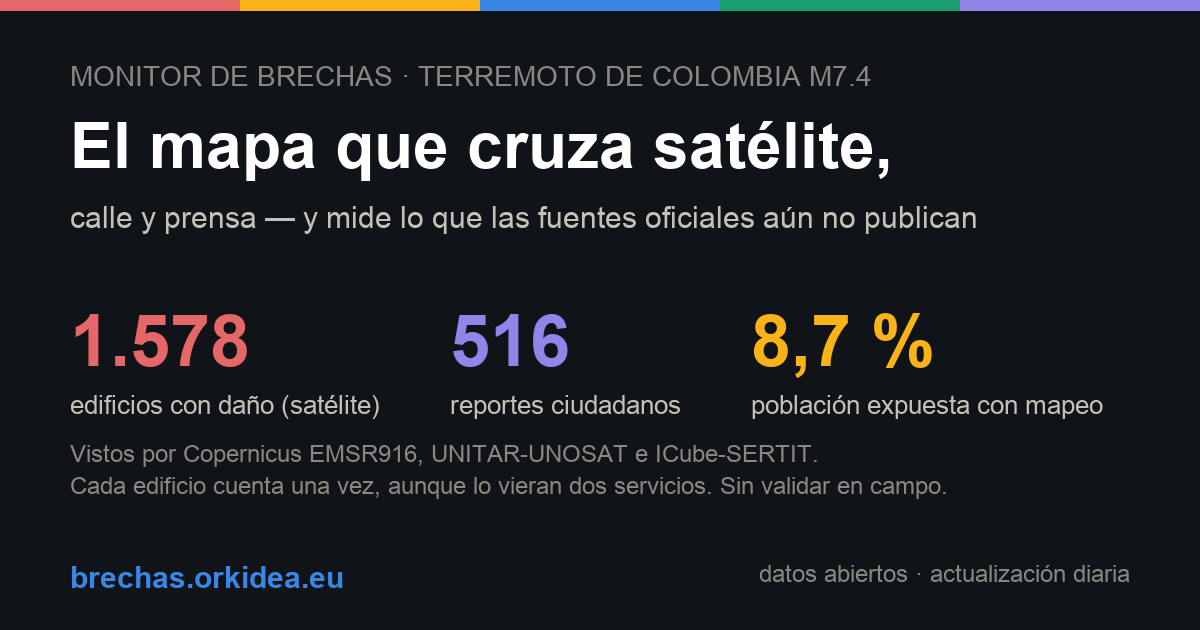
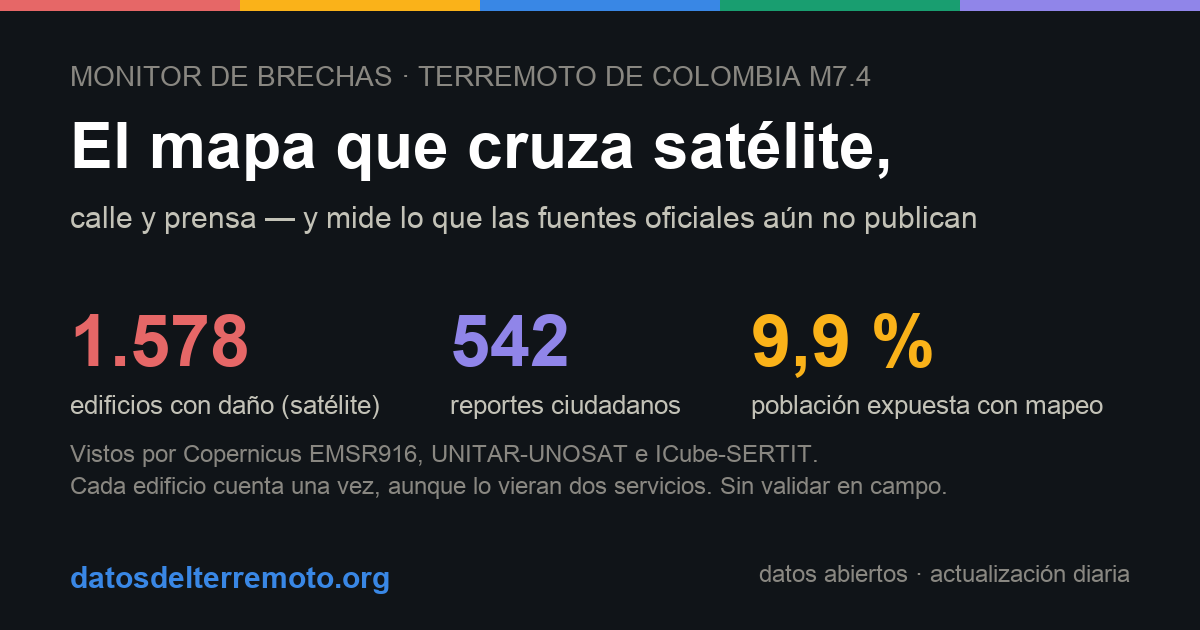
El monitor se muda a datosdelterremoto.org: el archivo deja de colgar de un dominio personal
Un observatorio que promete ser reconstruible dentro de veinte años no puede
depender de la renovación de un dominio ajeno a él. El sitio pasa a un dominio
propio, con el DNS en Cloudflare junto al worker, R2 y las analíticas.

El dominio anterior no se abandona: queda con 301 permanente, porque hay URLs
citadas en prensa y programas que descargan los JSON y el CSV a diario. Las URL
autorreferenciales de los hitos pasan a rutas relativas para que no vuelvan a
caducar; `docs/` y los snapshots no se tocan, que son archivo fechado.

De paso, los títulos dejan de firmar y pasan a responder: medían entre 95 y 124
caracteres y terminaban en una marca que nadie busca, así que las palabras que
importan caían fuera de la pantalla de resultados. Ahora rondan los 60 y el
nombre del sitio se declara en el JSON-LD. Se corrige además el nombre de la
fuente: es Registro Único de Damnificados, no «oficial» ni «unificado» — un
monitor que audita a otros no puede errar el nombre de lo que audita.

Nuevo guardián `tests/test_dominio_canonico.py`: falla si un fichero vivo
publica un dominio retirado o si un canonical discrepa del host del sitemap.
Validado contra el fallo real antes de darlo por bueno.

Changed region(s): [[0.0617, 0.9048, 0.3392, 0.9349], [0.6167, 0.4825, 0.7092, 0.6032], [0.4008, 0.5127, 0.4933, 0.6032]]

diff --git a/site/index.html b/site/index.html
@@ -3,28 +3,28 @@
 <head>
 <meta charset="utf-8">
 <meta name="viewport" content="width=device-width, initial-scale=1">
-<title>Terremoto de Colombia 2026 (M7.4): daños, municipios y prensa — Cali, Pereira, Quibdó, Buenaventura | Monitor de brechas</title>
+<title>Mapa del terremoto de Colombia 2026, municipio a municipio</title>
 <meta name="description" content="Mapa interactivo del terremoto del 10 de agosto de 2026 en Colombia (M7.4, San José del Palmar, Chocó): daños por satélite (Copernicus EMSR916, UNITAR-UNOSAT e ICube-SERTIT), municipios con prensa o intensidad percibida, población DANE, reportes ciudadanos por WhatsApp, balances oficiales citados en medios, titulares por zona y la brecha frente a fuentes oficiales UNGRD.">
 <meta name="robots" content="index, follow">
-<link rel="canonical" href="https://brechas.orkidea.eu/">
-<meta property="og:url" content="https://brechas.orkidea.eu/">
+<link rel="canonical" href="https://datosdelterremoto.org/">
+<meta property="og:url" content="https://datosdelterremoto.org/">
 <meta property="og:type" content="website">
 <meta property="og:locale" content="es_CO">
-<meta property="og:title" content="Terremoto de Colombia 2026 (M7.4): mapa de daños y monitor de brechas de reporte">
+<meta property="og:title" content="Datos del terremoto de Colombia 2026: mapa, cifras y brechas">
 <meta property="og:description" content="Daños clasificados por satélite (Copernicus EMSR916, UNITAR-UNOSAT e ICube-SERTIT), municipios mencionados en prensa o DYFI, población DANE, 430+ reportes ciudadanos con foto y brecha de fuentes oficiales.">
-<meta property="og:image" content="https://brechas.orkidea.eu/og/portada.png">
+<meta property="og:image" content="https://datosdelterremoto.org/og/portada.png">
 <meta property="og:image:width" content="1200">
 <meta property="og:image:height" content="630">
 <meta property="og:image:alt" content="Monitor del terremoto de Colombia: 1.578 edificios con daño clasificado por satélite —Copernicus EMSR916, UNITAR-UNOSAT e ICube-SERTIT, contando una sola vez los que vieron dos servicios—, reportes ciudadanos y brechas de reporte">
-<meta name="twitter:image" content="https://brechas.orkidea.eu/og/portada.png">
+<meta name="twitter:image" content="https://datosdelterremoto.org/og/portada.png">
 <meta name="twitter:card" content="summary_large_image">
-<meta name="twitter:title" content="Terremoto de Colombia 2026 (M7.4): mapa de daños por ciudad">
+<meta name="twitter:title" content="Mapa del terremoto de Colombia 2026, municipio a municipio">
 <meta name="twitter:description" content="Mapa interactivo con daños satelitales, reportes ciudadanos y brechas de reporte oficial, actualizado a diario.">
 <script type="application/ld+json">
 {
   "@context": "https://schema.org",
   "@type": "WebSite",
-  "name": "Monitor de brechas — Terremoto de Colombia 2026",
+  "name": "Datos del terremoto de Colombia 2026",
   "inLanguage": "es",
   "about": {
     "@type": "Event",
@@ -63,7 +63,7 @@
 <nav id="site-nav" aria-label="Navegación del sitio"></nav>
 <header>
   <div>
-    <h1>Monitor de brechas de reporte — Terremoto de Colombia</h1>
+    <h1>Datos del terremoto de Colombia 2026</h1>
     <p class="sub">Magnitud 7,4 · 10 de agosto de 2026 · San José del Palmar (Chocó) ·
       Copernicus <a href="https://rapidmapping.emergency.copernicus.eu/EMSR916/" target="_blank" rel="noopener">EMSR916</a> ·
       GLIDE EQ-2026-000146-COL · alerta PAGER <span class="badge critical">roja</span></p>

diff --git a/site/noticias.html b/site/noticias.html
@@ -3,26 +3,26 @@
 <head>
 <meta charset="utf-8">
 <meta name="viewport" content="width=device-width, initial-scale=1">
-<title>Titulares del terremoto de Colombia 2026 — noticias por zona y municipio | Monitor de brechas</title>
+<title>Titulares del terremoto de Colombia 2026, por zona y municipio</title>
 <meta name="description" content="Titulares de prensa ligados al terremoto M7.4 de Colombia (10-ago-2026), emparejados por AOI Copernicus y municipio: GDACS EMM, feeds abiertos y búsquedas Google News municipales.">
-<link rel="canonical" href="https://brechas.orkidea.eu/noticias.html">
-<meta property="og:url" content="https://brechas.orkidea.eu/noticias.html">
+<link rel="canonical" href="https://datosdelterremoto.org/noticias.html">
+<meta property="og:url" content="https://datosdelterremoto.org/noticias.html">
 <meta property="og:type" content="website">
 <meta property="og:locale" content="es_CO">
 <meta property="og:title" content="Titulares del terremoto de Colombia 2026, por zona afectada">
 <meta property="og:description" content="Miles de titulares del terremoto M7.4 emparejados por zona (Cali, Pereira, Quibdó, Istmina, Buenaventura), desde feeds internacionales y regionales abiertos a la comunidad.">
-<meta property="og:image" content="https://brechas.orkidea.eu/og/titulares.png">
+<meta property="og:image" content="https://datosdelterremoto.org/og/titulares.png">
 <meta property="og:image:width" content="1200">
 <meta property="og:image:height" content="630">
 <meta property="og:image:alt" content="Titulares del terremoto de Colombia emparejados por zona afectada">
-<meta name="twitter:image" content="https://brechas.orkidea.eu/og/titulares.png">
+<meta name="twitter:image" content="https://datosdelterremoto.org/og/titulares.png">
 <meta name="twitter:card" content="summary_large_image">
 <meta name="twitter:title" content="Titulares del terremoto de Colombia, por zona">
 <meta name="twitter:description" content="Feeds abiertos: cualquiera puede sumar un medio local con un PR.">
 <script type="application/ld+json">
 {"@context":"https://schema.org","@type":"CollectionPage",
  "name":"Titulares del terremoto de Colombia 2026 por zona",
- "inLanguage":"es","isPartOf":{"@type":"WebSite","name":"Monitor de brechas","url":"https://brechas.orkidea.eu/"}}
+ "inLanguage":"es","isPartOf":{"@type":"WebSite","name":"Datos del terremoto de Colombia 2026","url":"https://datosdelterremoto.org/"}}
 </script>
 <link rel="manifest" href="manifest.json">
 <link rel="icon" type="image/png" href="icons/favicon.png">
@@ -34,7 +34,7 @@
 <nav id="site-nav" aria-label="Navegación del sitio"></nav>
 <header>
   <div>
-    <h1>Titulares del terremoto — todas las noticias</h1>
+    <h1>Titulares del terremoto, por zona y por medio</h1>
     <p class="sub">Fuentes: GDACS EMM,
     feeds aportados por la comunidad y búsquedas Google News por municipio (<a href="https://github.com/18orkidea/monitor-terremoto-colombia/blob/main/feeds/registry.json" target="_blank" rel="noopener">registro abierto</a> —
     ¿conoces un buen feed local? <a href="https://github.com/18orkidea/monitor-terremoto-colombia/blob/main/CONTRIBUTING.md" target="_blank" rel="noopener">añádelo con un PR</a>)</p>

diff --git a/site/municipios.html b/site/municipios.html
@@ -3,20 +3,20 @@
 <head>
 <meta charset="utf-8">
 <meta name="viewport" content="width=device-width, initial-scale=1">
-<title>Municipios afectados por el terremoto de Colombia 2026: damnificados del RUD, prensa y población | Monitor de brechas</title>
+<title>Municipios afectados por el terremoto de Colombia 2026</title>
 <meta name="description" content="Municipios del área de influencia del terremoto M7.4 de Colombia (2026): damnificados registrados en el RUD (UNGRD), menciones en prensa, intensidad percibida (DYFI/USGS), población DANE 2026 y cobertura satelital (Copernicus, UNITAR-UNOSAT e ICube-SERTIT). Con buscador y cada cifra trazable.">
 <meta name="robots" content="index, follow">
-<link rel="canonical" href="https://brechas.orkidea.eu/municipios.html">
-<meta property="og:url" content="https://brechas.orkidea.eu/municipios.html">
+<link rel="canonical" href="https://datosdelterremoto.org/municipios.html">
+<meta property="og:url" content="https://datosdelterremoto.org/municipios.html">
 <meta property="og:type" content="website">
 <meta property="og:locale" content="es_CO">
 <meta property="og:title" content="Municipios afectados por el terremoto de Colombia 2026">
 <meta property="og:description" content="Cuántos damnificados registra el RUD en cada municipio, qué municipios aparecen en prensa, cuáles sintieron el sismo (DYFI) y cuáles mapeó el satélite — con población DANE y buscador.">
-<meta property="og:image" content="https://brechas.orkidea.eu/og/portada.png">
+<meta property="og:image" content="https://datosdelterremoto.org/og/portada.png">
 <meta property="og:image:width" content="1200">
 <meta property="og:image:height" content="630">
 <meta name="twitter:card" content="summary_large_image">
-<meta name="twitter:image" content="https://brechas.orkidea.eu/og/portada.png">
+<meta name="twitter:image" content="https://datosdelterremoto.org/og/portada.png">
 <meta name="twitter:title" content="Municipios afectados por el terremoto de Colombia 2026">
 <meta name="twitter:description" content="Damnificados del RUD, prensa, intensidad percibida, población DANE y cobertura satelital por municipio, con buscador.">
 <link rel="manifest" href="manifest.json">
@@ -29,7 +29,7 @@
 <nav id="site-nav" aria-label="Navegación del sitio"></nav>
 <header>
   <div>
-    <h1>Municipios con alguna señal del sismo</h1>
+    <h1>Datos de los municipios con alguna señal del sismo</h1>
     <p class="sub">Área de influencia del sismo M7.4 del 10 de agosto de 2026: registro oficial de
     damnificados, prensa, reportes «lo sentí» (DYFI) y cobertura satelital, municipio a
     municipio.</p>

diff --git a/site/rud.html b/site/rud.html
@@ -3,20 +3,20 @@
 <head>
 <meta charset="utf-8">
 <meta name="viewport" content="width=device-width, initial-scale=1">
-<title>RUD del terremoto de Colombia 2026: registro oficial de damnificados, día a día y por municipio | Monitor de brechas</title>
+<title>RUD: damnificados del terremoto de Colombia 2026, por municipio</title>
 <meta name="description" content="Seguimiento diario del RUD (UNGRD) tras el terremoto M7.4 de Colombia 2026: familias y personas damnificadas registradas, viviendas destruidas y averiadas, municipio a municipio, con buscador y serie temporal.">
 <meta name="robots" content="index, follow">
-<link rel="canonical" href="https://brechas.orkidea.eu/rud.html">
-<meta property="og:url" content="https://brechas.orkidea.eu/rud.html">
+<link rel="canonical" href="https://datosdelterremoto.org/rud.html">
+<meta property="og:url" content="https://datosdelterremoto.org/rud.html">
 <meta property="og:type" content="website">
 <meta property="og:locale" content="es_CO">
 <meta property="og:title" content="RUD: registro oficial de damnificados del terremoto de Colombia 2026">
 <meta property="og:description" content="La primera fuente oficial que cubre el evento: familias registradas por municipio, día a día, con buscador sobre los municipios registrados.">
-<meta property="og:image" content="https://brechas.orkidea.eu/og/portada.png">
+<meta property="og:image" content="https://datosdelterremoto.org/og/portada.png">
 <meta property="og:image:width" content="1200">
 <meta property="og:image:height" content="630">
 <meta name="twitter:card" content="summary_large_image">
-<meta name="twitter:image" content="https://brechas.orkidea.eu/og/portada.png">
+<meta name="twitter:image" content="https://datosdelterremoto.org/og/portada.png">
 <meta name="twitter:title" content="RUD del terremoto de Colombia 2026, día a día">
 <meta name="twitter:description" content="Registro oficial de damnificados por municipio, con serie temporal y buscador.">
 <link rel="manifest" href="manifest.json">
@@ -29,7 +29,7 @@
 <nav id="site-nav" aria-label="Navegación del sitio"></nav>
 <header>
   <div>
-    <h1>Registro oficial de damnificados (RUD), día a día</h1>
+    <h1>Registro Único de Damnificados (RUD), día a día</h1>
     <p class="sub">Familias registradas por las autoridades municipales en el
     <a href="https://rud.gestiondelriesgo.gov.co/" target="_blank" rel="noopener">RUD de la UNGRD</a>
     tras el sismo M7.4 del 10 de agosto de 2026.</p>

diff --git a/site/balances.html b/site/balances.html
@@ -3,19 +3,19 @@
 <head>
 <meta charset="utf-8">
 <meta name="viewport" content="width=device-width, initial-scale=1">
-<title>Cifras del terremoto de Colombia 2026 día a día: balances citados en medios (UNGRD, SGC) | Monitor de brechas</title>
+<title>Cifras del terremoto de Colombia 2026: qué publica cada fuente</title>
 <meta name="description" content="Evolución diaria de balances publicados por medios que citan fuentes oficiales tras el terremoto M7.4 de Colombia: publicación, fuente citada, cifras y URL trazable.">
-<link rel="canonical" href="https://brechas.orkidea.eu/balances.html">
-<meta property="og:url" content="https://brechas.orkidea.eu/balances.html">
+<link rel="canonical" href="https://datosdelterremoto.org/balances.html">
+<meta property="og:url" content="https://datosdelterremoto.org/balances.html">
 <meta property="og:type" content="website">
 <meta property="og:locale" content="es_CO">
 <meta property="og:title" content="Balances del terremoto de Colombia citados en medios (UNGRD, SGC)">
 <meta property="og:description" content="Evolución diaria de fallecidos, heridos, desaparecidos y familias afectadas según los balances que la prensa publica citando fuentes oficiales — con URL trazable y coberturas en vivo penalizadas.">
-<meta property="og:image" content="https://brechas.orkidea.eu/og/balances.png">
+<meta property="og:image" content="https://datosdelterremoto.org/og/balances.png">
 <meta property="og:image:width" content="1200">
 <meta property="og:image:height" content="630">
 <meta property="og:image:alt" content="Serie diaria de balances del terremoto citados en medios">
-<meta name="twitter:image" content="https://brechas.orkidea.eu/og/balances.png">
+<meta name="twitter:image" content="https://datosdelterremoto.org/og/balances.png">
 <meta name="twitter:card" content="summary_large_image">
 <meta name="twitter:title" content="Balances del terremoto citados en medios, día a día">
 <meta name="twitter:description" content="No es el balance oficial: es lo que la prensa publica citándolo. Cada cifra con su URL.">

diff --git a/site/app.js b/site/app.js
@@ -97,7 +97,7 @@
       !/^https?:$/.test(location.protocol)
         ? "<strong>Esta página está abierta como un archivo del disco:</strong> el " +
           "navegador bloquea la carga de datos por seguridad. Ábrela en " +
-          "<a href=\"https://brechas.orkidea.eu/\">brechas.orkidea.eu</a>."
+          "<a href=\"https://datosdelterremoto.org/\">datosdelterremoto.org</a>."
         : "No se han podido cargar los datos del monitor. Vuelve a intentarlo en " +
           "unos minutos.";
     return;

diff --git a/workers/push/src/index.js b/workers/push/src/index.js
@@ -140,7 +140,7 @@ export default {
     return json({
       servicio: "avisos del monitor de brechas (terremoto Colombia 2026)",
       rutas: ["POST /suscribir", "POST /desuscribir", "GET /stats"],
-      sitio: "https://brechas.orkidea.eu/site/",
+      sitio: "https://datosdelterremoto.org/",
     });
   },
 

diff --git a/workers/push/src/webpush.js b/workers/push/src/webpush.js
@@ -169,6 +169,6 @@ export function resumenNotificacion(fecha, alertas) {
   return {
     titulo: `Monitor de brechas · ${fecha}`,
     cuerpo: (cuerpo + extra).slice(0, 500),
-    url: "https://brechas.orkidea.eu/site/#alerts-section",
+    url: "https://datosdelterremoto.org/#alerts-section",
   };
 }

diff --git a/deploy/render_html.py b/deploy/render_html.py
@@ -769,9 +769,8 @@ def render_ficha(d: dict) -> str:
     página del sitio."""
     m = d["muni"]
     nombre, depto = m["municipio"], m["departamento"]
-    url = f"https://brechas.orkidea.eu/municipio/{d['slug']}/"
-    titulo = (f"Terremoto de Colombia 2026 en {nombre} ({depto}): damnificados, "
-              f"daños y cobertura")
+    url = f"https://datosdelterremoto.org/municipio/{d['slug']}/"
+    titulo = f"Terremoto en {nombre} ({depto}) 2026: damnificados y daños"
     descr = (f"{nombre} ({depto}): {fmt(m['rud_familias'])} familias inscritas en el RUD, "
              f"{fmt(m['rud_viv_averiadas'])} viviendas averiadas y "
              f"{'sin' if not satelites_con_dato(m, d['satelite']) else 'con'} "
@@ -791,8 +790,8 @@ def render_ficha(d: dict) -> str:
             # Guinea (R3).
             **({"geo": {"@type": "GeoCoordinates", "latitude": m["lat"],
                         "longitude": m["lon"]}} if d["tiene_coords"] else {})},
-        "isPartOf": {"@type": "Dataset", "name": "Monitor de brechas — Terremoto de Colombia 2026",
-                     "url": "https://brechas.orkidea.eu/"}}
+        "isPartOf": {"@type": "Dataset", "name": "Datos del terremoto de Colombia 2026",
+                     "url": "https://datosdelterremoto.org/"}}
     migas = [("Monitor de brechas", f"{BASE}/"),
              ("Municipios", f"{BASE}/municipios.html"),
              (nombre, None)]
@@ -800,7 +799,7 @@ def render_ficha(d: dict) -> str:
         "@context": "https://schema.org", "@type": "BreadcrumbList",
         "itemListElement": [
             {"@type": "ListItem", "position": i + 1, "name": txt,
-             **({"item": f"https://brechas.orkidea.eu{href}"} if href else {})}
+             **({"item": f"https://datosdelterremoto.org{href}"} if href else {})}
             for i, (txt, href) in enumerate(migas)]}
     scripts_mapa = (
         f'<script src="{BASE}/ui.js?v=dev" defer></script>\n'
@@ -809,7 +808,7 @@ def render_ficha(d: dict) -> str:
 
     o = ['<!DOCTYPE html>', '<html lang="es">', '<head>', '<meta charset="utf-8">',
          '<meta name="viewport" content="width=device-width, initial-scale=1">',
-         f'<title>{e(titulo)} | Monitor de brechas</title>',
+         f'<title>{e(titulo)}</title>',
          f'<meta name="description" content="{e(descr)}">',
          '<meta name="robots" content="index, follow">',
          f'<link rel="canonical" href="{url}">',
@@ -818,7 +817,7 @@ def render_ficha(d: dict) -> str:
          '<meta property="og:locale" content="es_CO">',
          f'<meta property="og:title" content="{e(titulo)}">',
          f'<meta property="og:description" content="{e(descr)}">',
-         f'<meta property="og:image" content="https://brechas.orkidea.eu{BASE}/og/portada.png">',
+         f'<meta property="og:image" content="https://datosdelterremoto.org{BASE}/og/portada.png">',
          '<meta name="twitter:card" content="summary_large_image">',
          f'<script type="application/ld+json">{json.dumps(ld, ensure_ascii=False)}</script>',
          f'<script type="application/ld+json">{json.dumps(ld_migas, ensure_ascii=False)}</script>',

diff --git a/tests/test_dominio_canonico.py b/tests/test_dominio_canonico.py
@@ -1,0 +1,73 @@
+"""El sitio se publica bajo un solo dominio, y solo uno.
+
+La mudanza a dominio propio (22-ago-2026) dejó el host repartido en literales
+por veintiséis ficheros: canonical, OG, sitemap, llms.txt, robots, el worker de
+avisos y los feeds. Olvidar uno no rompe nada visible — la página se ve igual —
+pero publica una URL canónica que apunta al dominio muerto, y eso sí lo leen
+los buscadores y quien nos cita. De ahí que se compruebe por fichero.
+
+Los documentos de `docs/` y los snapshots quedan fuera a propósito: son archivo
+fechado, y reescribirlos falsearía lo que se dijo entonces.
+"""
+import re
+import sys
+import unittest
+from pathlib import Path
+
+RAIZ = Path(__file__).resolve().parent.parent
+sys.path.insert(0, str(RAIZ / "deploy"))
+
+import render_descubrimiento as D  # noqa: E402
+
+# dominios bajo los que el monitor se publicó antes y que ya no son canónicos
+DOMINIOS_RETIRADOS = ("brechas.orkidea.eu",)
+
+SUFIJOS = {".py", ".js", ".jsonc", ".json", ".html", ".txt", ".xml", ".csv",
+           ".rss", ".sh", ".yml", ".yaml", ".md"}
+
+# superficie viva: lo que se publica o lo que genera lo que se publica
+RAICES = ("site", "deploy", "ingest", "workers", "feeds", ".github/workflows")
+SUELTOS = ("README.md",)
+
+
+def _ficheros():
+    for r in RAICES:
+        for f in (RAIZ / r).rglob("*"):
+            if f.is_file() and f.suffix in SUFIJOS and "node_modules" not in f.parts:
+                yield f
+    for nombre in SUELTOS:
+        yield RAIZ / nombre
+    for f in (RAIZ / "data" / "public").glob("*"):
+        if f.is_file() and f.suffix in SUFIJOS:
+            yield f
+
+
+class TestDominioCanonico(unittest.TestCase):
+
+    def test_ningun_fichero_vivo_menciona_un_dominio_retirado(self):
+        for f in _ficheros():
+            texto = f.read_text(encoding="utf-8", errors="ignore")
+            # este propio test nombra los dominios retirados: es su cometido
+            if f.name == Path(__file__).name:
+                continue
+            for viejo in DOMINIOS_RETIRADOS:
+                if viejo in texto:
+                    linea = next(i for i, l in enumerate(texto.splitlines(), 1)
+                                 if viejo in l)
+                    # se falla a mano: assertNotIn volcaría el fichero entero
+                    self.fail(f"{f.relative_to(RAIZ)}:{linea} sigue publicando "
+                              f"{viejo}; esa URL apunta al dominio muerto")
+
+    def test_el_canonical_de_cada_pagina_usa_el_dominio_del_sitemap(self):
+        """Si el sitemap y el canonical discrepan, el buscador indexa uno y
+        cita el otro. El sitemap manda: es la lista que se envía."""
+        host = D.DOMINIO
+        for f in (RAIZ / "site").glob("*.html"):
+            for url in re.findall(r'<link rel="canonical" href="([^"]+)"', f.read_text(encoding="utf-8")):
+                self.assertTrue(
+                    url.startswith(host + "/"),
+                    f"{f.name} declara canonical en {url}, fuera de {host}")
+
+
+if __name__ == "__main__":
+    unittest.main()

diff --git a/tests/test_render_html.py b/tests/test_render_html.py
@@ -635,7 +635,7 @@ class TestSitioEnLaRaiz(unittest.TestCase):
     def test_ninguna_pagina_se_referencia_bajo_site(self):
         for f in (self.RAIZ / "site").glob("*.html"):
             s = f.read_text(encoding="utf-8")
-            self.assertNotIn("brechas.orkidea.eu/site/", s,
+            self.assertNotIn("datosdelterremoto.org/site/", s,
                              f"{f.name} sigue declarando su canonical bajo /site/")
 
     def test_las_rutas_de_datos_son_absolutas(self):
@@ -983,7 +983,7 @@ class TestSeoCheck(unittest.TestCase):
 
     def test_caza_un_sitemap_que_promete_lo_que_no_existe(self):
         (self.tmp / "sitemap.xml").write_text(
-            "<urlset><url><loc>https://brechas.orkidea.eu/municipio/fantasma/</loc>"
+            "<urlset><url><loc>https://datosdelterremoto.org/municipio/fantasma/</loc>"
             "</url></urlset>", encoding="utf-8")
         res = self.seo.revisar(self.tmp)
         self.assertTrue(any("y no existe" in f for f in res["fallos"]))

diff --git a/deploy/gen_og.py b/deploy/gen_og.py
@@ -50,7 +50,7 @@ def base(titulo: str, subtitulo: str) -> tuple[Image.Image, ImageDraw.ImageDraw]
     d.text((70, 110), titulo, font=font(64, bold=True), fill=INK)
     d.text((70, 200), subtitulo, font=font(30), fill=INK2)
     # pie
-    d.text((70, H - 70), "brechas.orkidea.eu", font=font(30, bold=True), fill=S1)
+    d.text((70, H - 70), "datosdelterremoto.org", font=font(30, bold=True), fill=S1)
     d.text((W - 70, H - 70), "datos abiertos · actualización diaria",
            font=font(24), fill=MUTED, anchor="ra")
     return img, d
